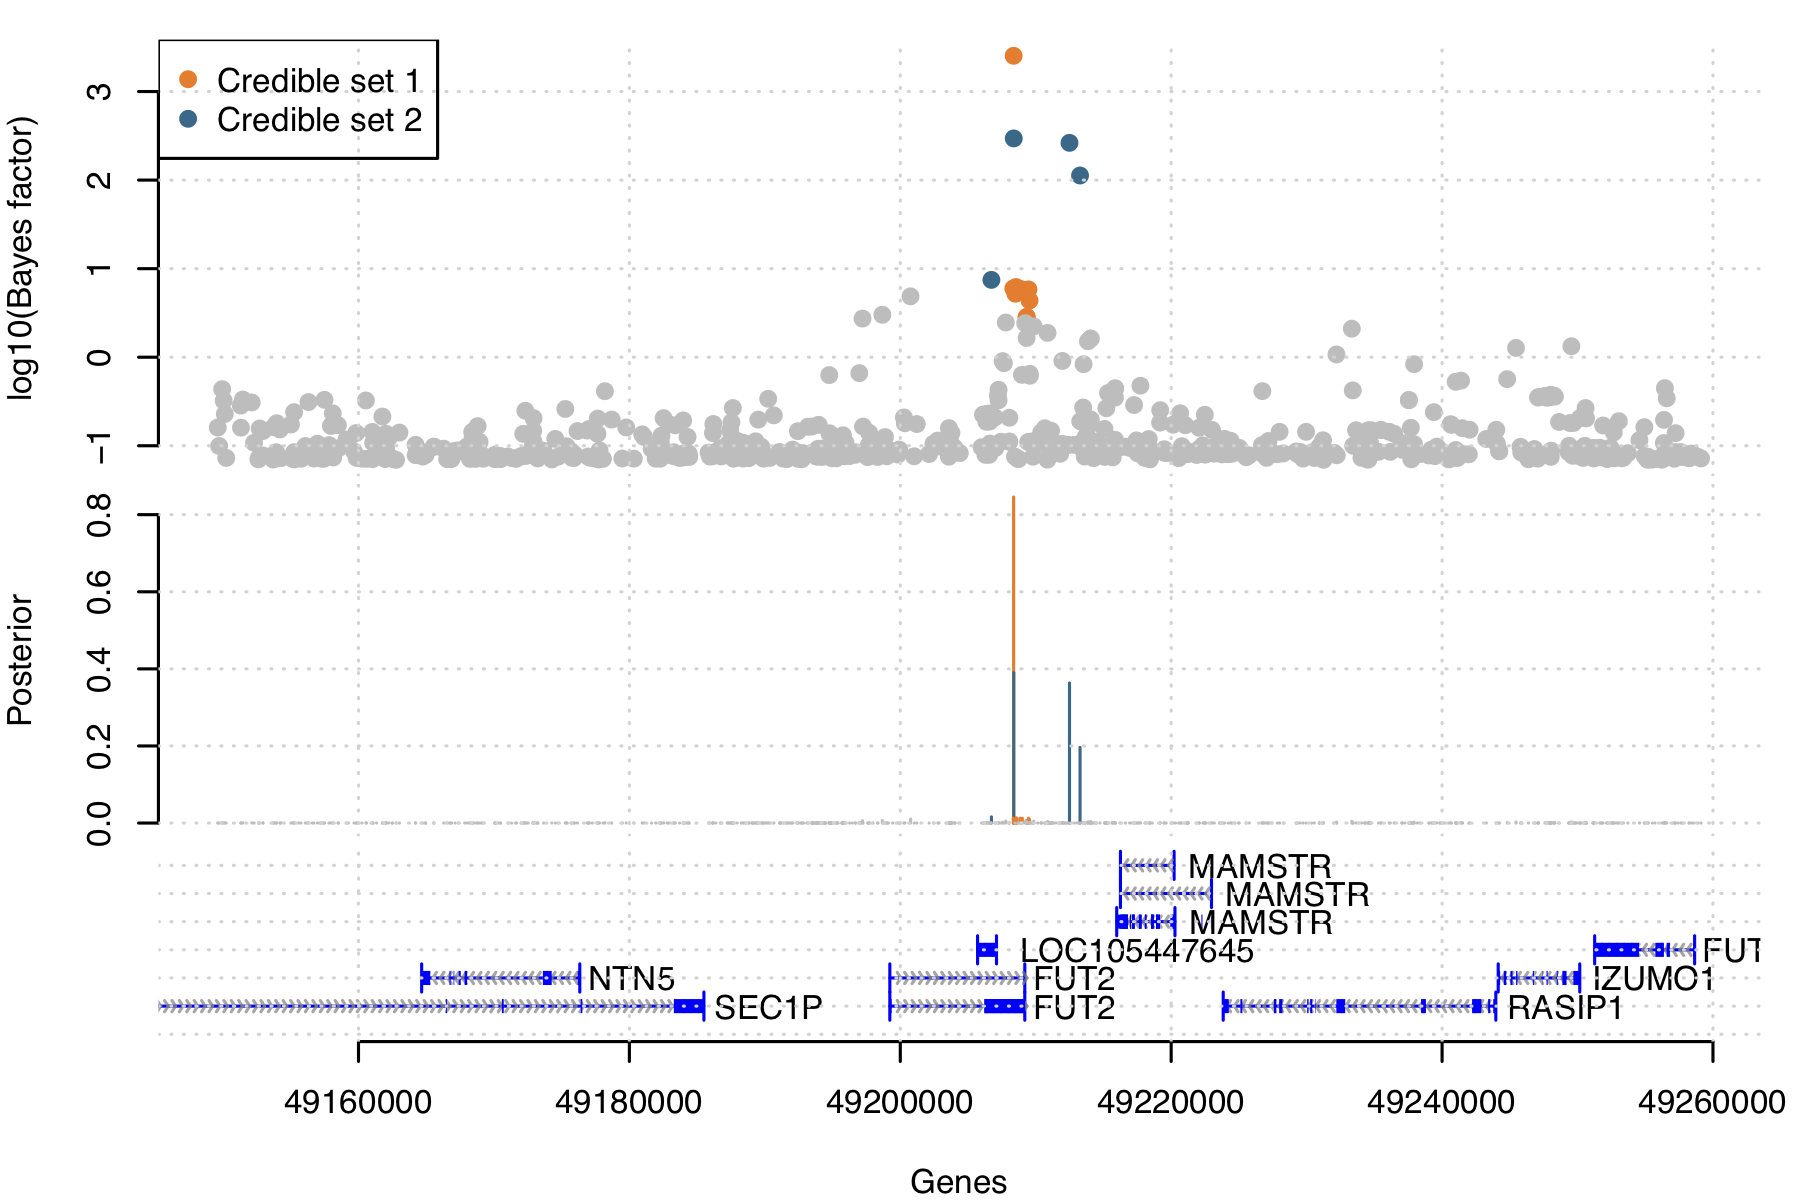
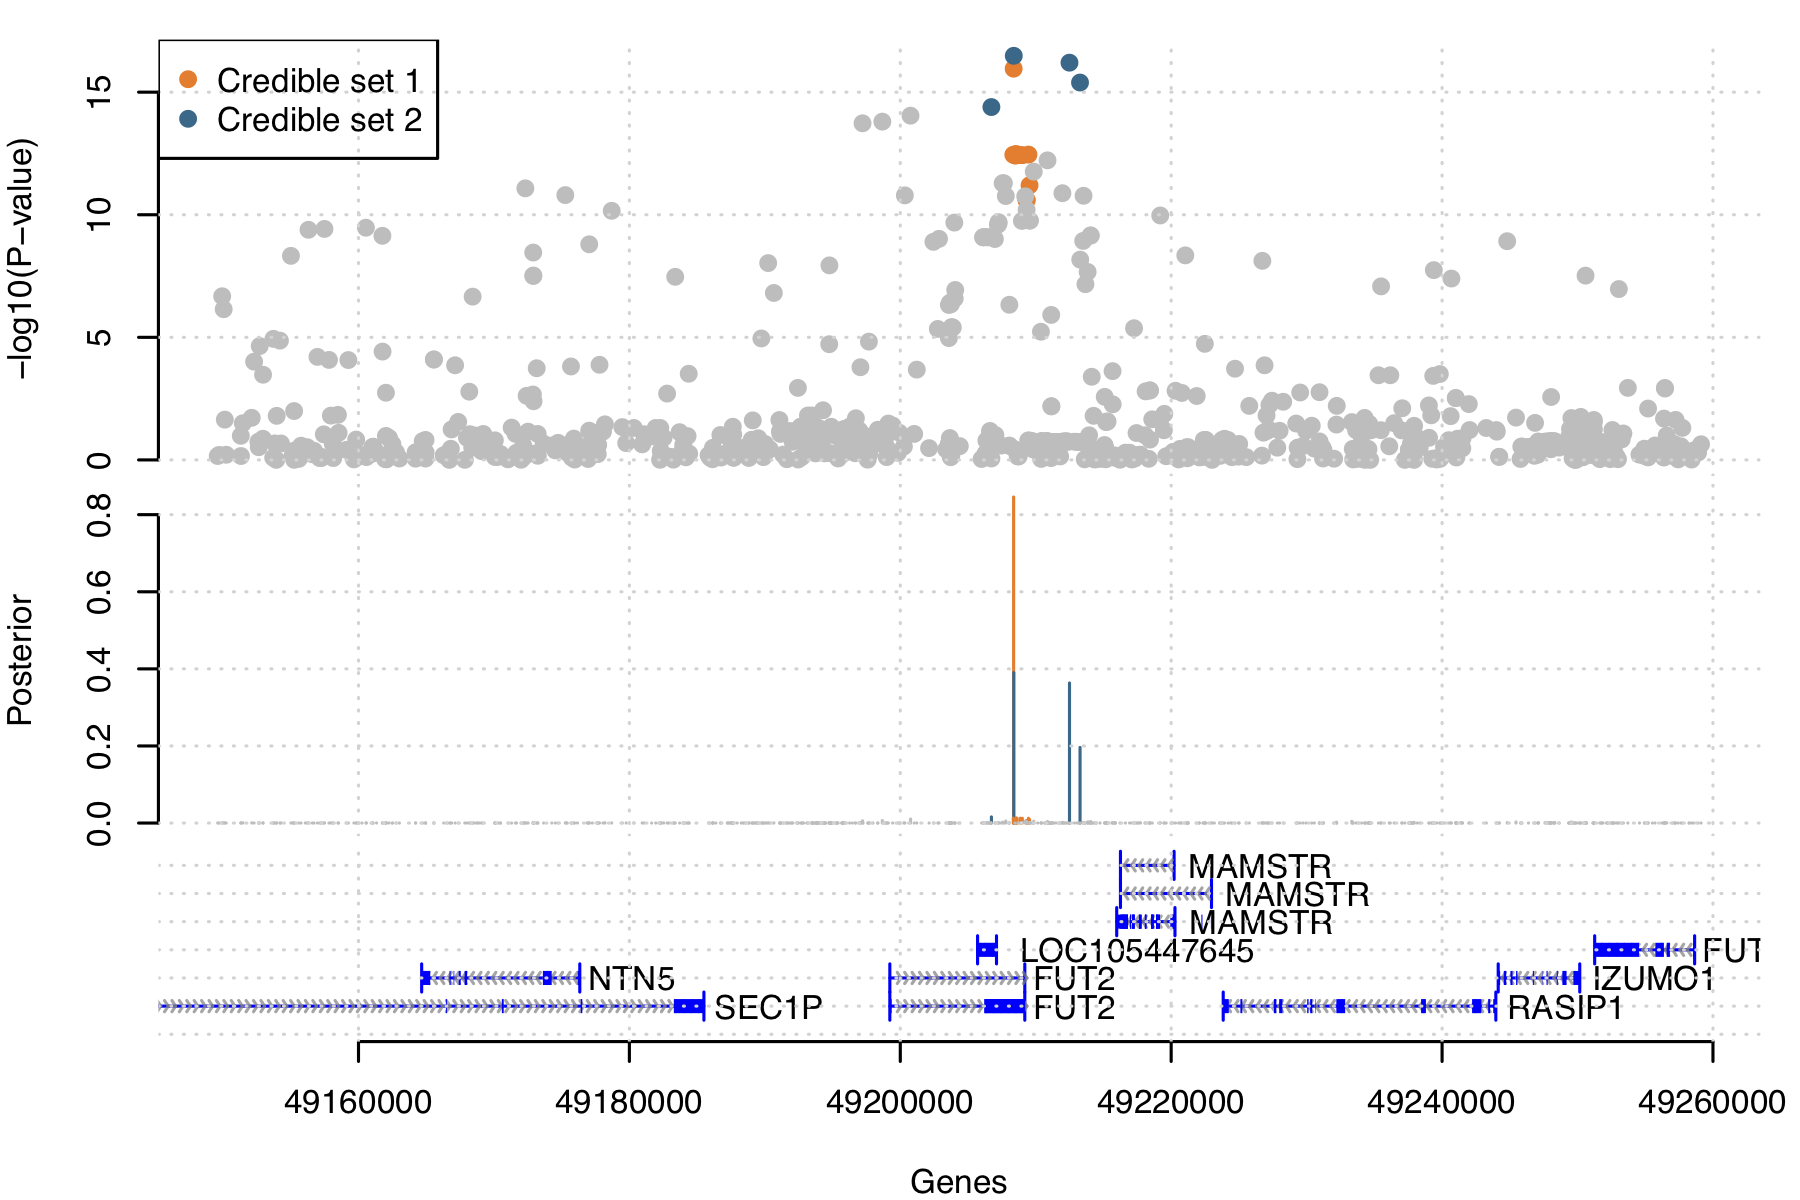
Fix plot for P-values

diff --git a/Introduction_to_GWAS/practicals/meta-analysis_and_fine-mapping_practical/Fine-mapping.md b/Introduction_to_GWAS/practicals/meta-analysis_and_fine-mapping_practical/Fine-mapping.md
@@ -340,7 +340,16 @@ in each group?
 
 In statistics we are never done until the ink is dry on our plot. Let's make a hitplot that (like
 our GWAS practical hitplot) shows the marginal evidence at each SNP, but colours the SNPs according
-to what credible set they fall in.  First let's define the colours:
+to what credible set they fall in.  
+
+First we have to reconstruct the marginal SNP P-value from the effect size and standard error (or z-score),
+since FINEMAP doesn't output the P-value:
+
+```
+snps$pvalue = 2 * pnorm( -abs(snps$z ))
+```
+
+Next let's define the colours for our credible sets:
 
 ```
 colours = c( "chocolate1", "deepskyblue4" )
@@ -356,7 +365,7 @@ practical](../GWAS_analysis_practical):
 genes <- read.table( "resources/refGene_chr19.txt.gz", header=T, as.is=T )
 ```
 
-Here's a function that makes the plot:
+Now here's a function that makes the plot:
 
 ```
 plot.finemap.output <- function( snps, credible, xrange = NULL ) {
@@ -370,7 +379,7 @@ plot.finemap.output <- function( snps, credible, xrange = NULL ) {
   par( mar = c( 0.1, 4, 1, 1 ))
   plot(
     snps$position,
-    snps$log10bf,
+    -log10( snps$pvalue ),
     xlab = "Position",
     ylab = "log10(Bayes factor)",
     col = snps$colour,
@@ -416,21 +425,6 @@ plot.finemap.output( snps, credible, xrange = c( 49190000, 49229999 ) )
 It should look something like this:
 
 <img src="solutions/finemap_plot_zoom.png">
-
-**Note.** In the above function we plotted the *log<sub>10</sub> Bayes factor* rather than the
-P-value. The Bayes factor is a direct measure of the evidence in the data that the SNP is
-associated - it behaves a lot like the the P-value. If you want to plot the P-value, you can of
-course do that instead, but because FINEMAP doesn't output this you will first have to reconstruct
-it from the z score or beta and standard error in the usual way:
-
-```
-snps$pvalue = 2 * pnorm( -abs(snps$z ))
-```
-
-or:
-```
-snps$pvalue = 2 * pnorm( -abs(snps$beta), sd = snps$se )
-```
 
 At this point you can adjust the function to plot `-log10(snps$pvalue)` instead.
 
